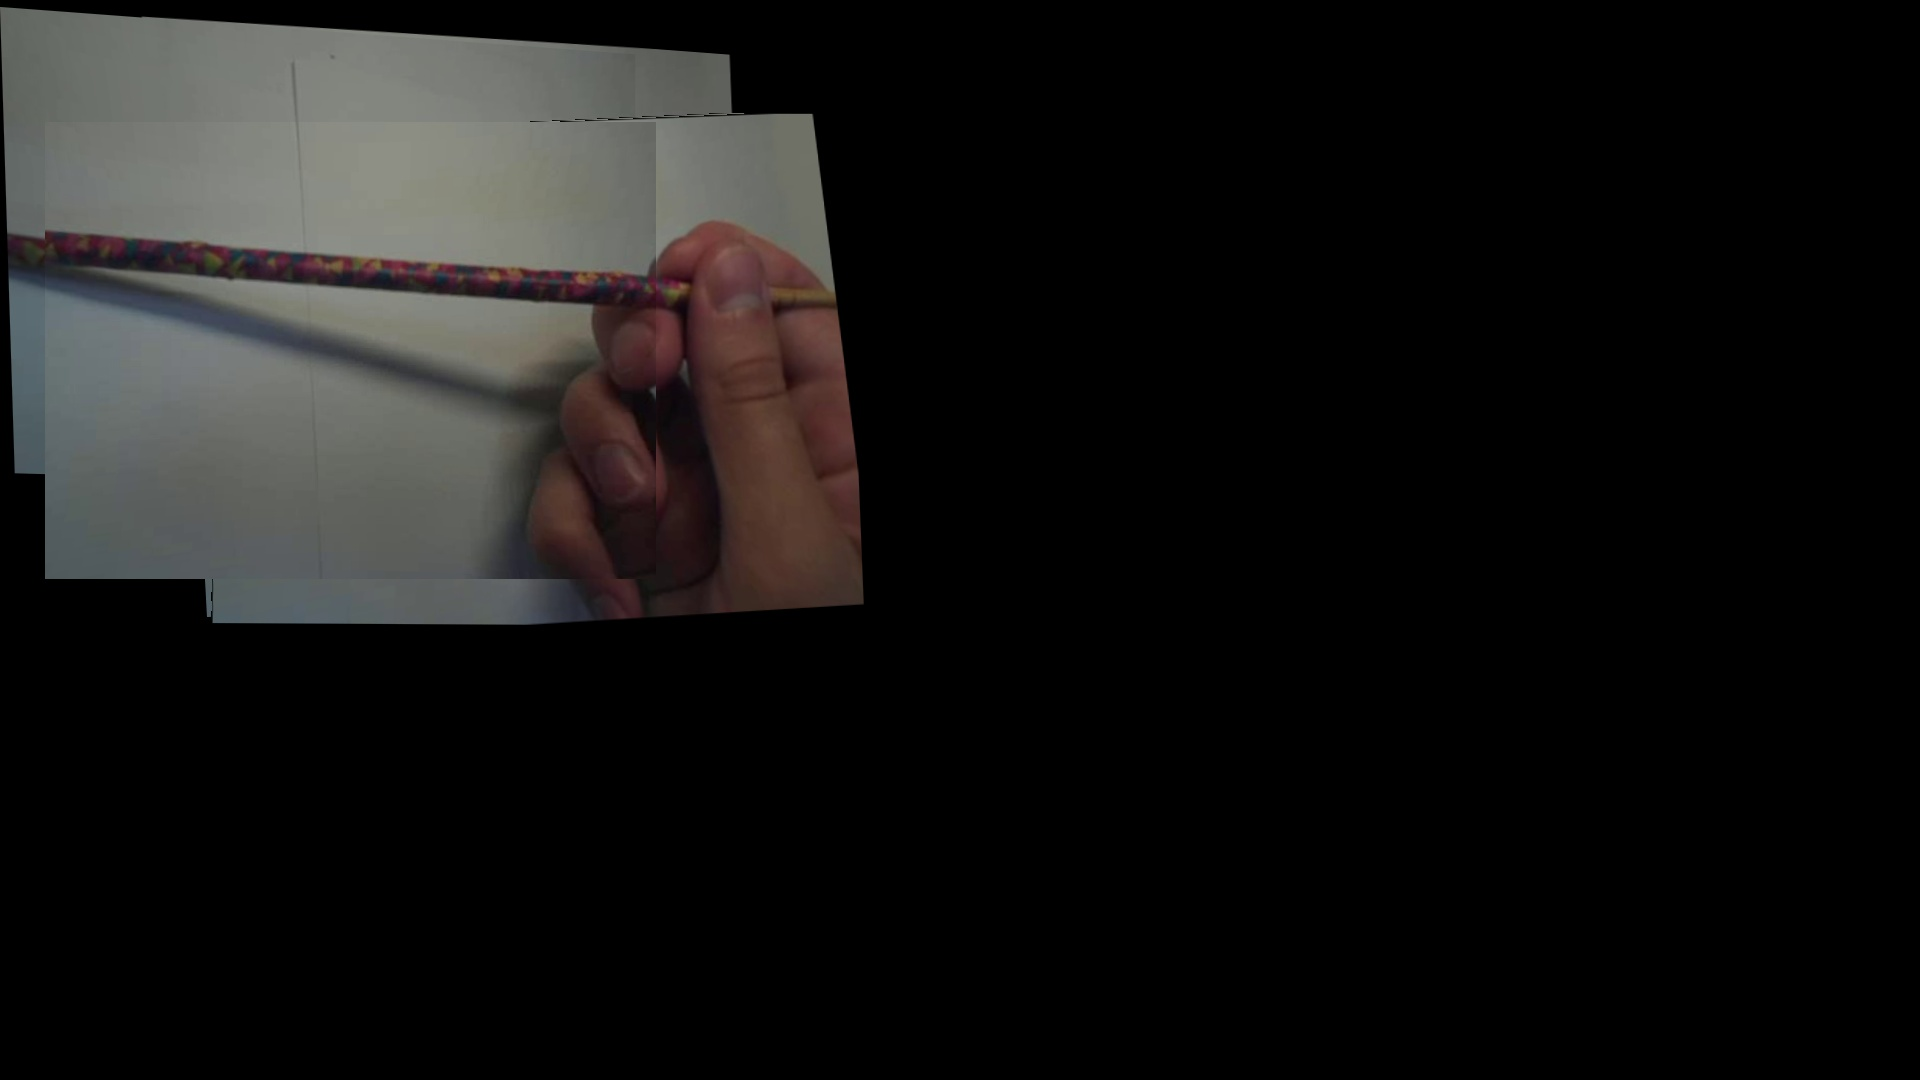
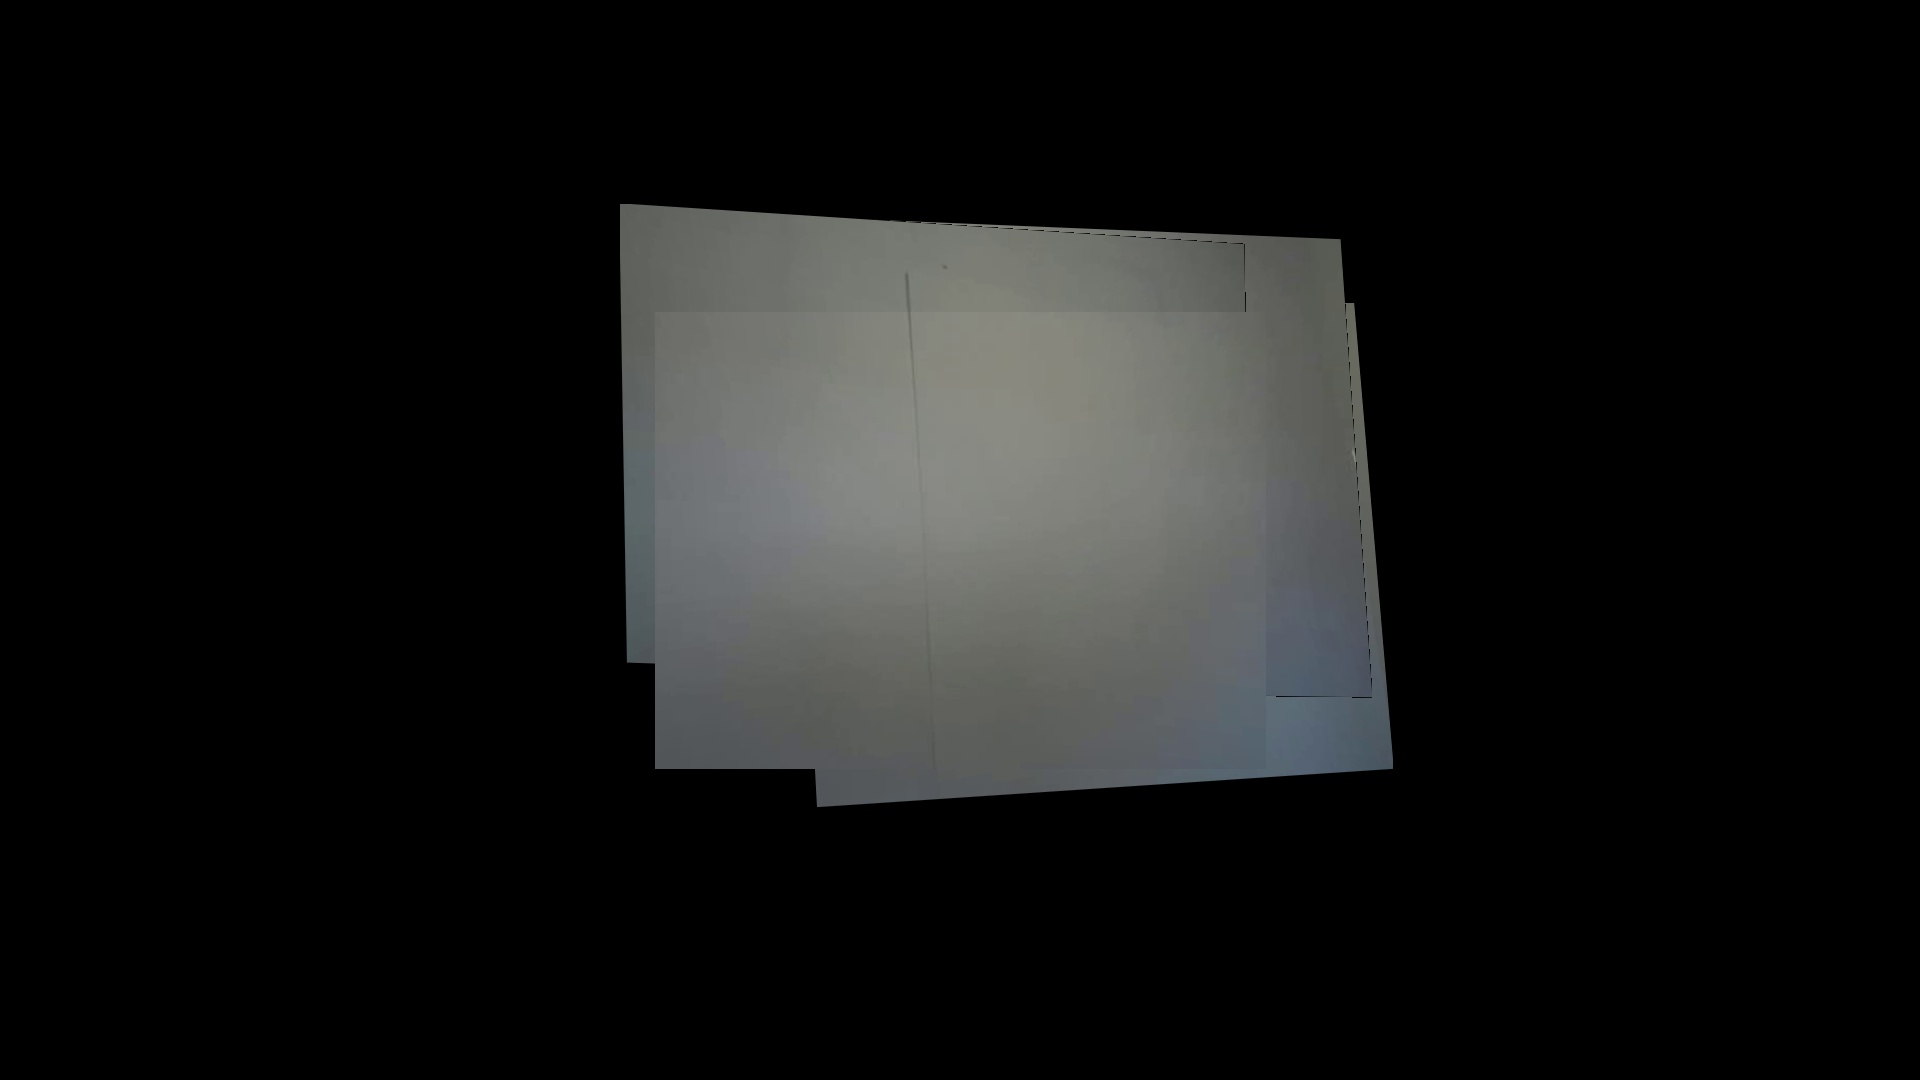
First steps of implementing stitching onto canvas with fixed global coordinate system. VideoStitch3 now has static application of homographies to the center of a 1920x1080 canvas. I still need to add in bugfixing for the corner case where the stitched image would fall outside the canvas and add back

diff --git a/stitcher/videoStitch3.py b/stitcher/videoStitch3.py
@@ -110,7 +110,7 @@ for k in range(0,CALWINDOW):
 
 	# Perform first stitch. Stitching together image 1 and image 2.
 	print "\n1:"
-	(result1, vis1,H,mask11,mask12) = stitch.stitch([image1, image2], showMatches=True)
+	(result1, vis1,H,mask11,mask12,coord_shift1) = stitch.stitch([image1, image2], showMatches=True)
 	H1 = H							# Store first Homography
 	seam1 = stitch.locateSeam(mask11[:,:,0],mask12[:,:,0]) 	# Locate the seam between the two images.
 	
@@ -120,14 +120,15 @@ for k in range(0,CALWINDOW):
         #cv2.waitKey(0)
 
 	print "\n2:"
-	(result2, vis2,H,mask21,mask22) = stitch.stitch([image4, image3], showMatches=True)
+	(result2, vis2,H,mask21,mask22,coord_shift2) = stitch.stitch([image1, image3], showMatches=True)
 	H2 = H							# Store the second Homography
 	seam2 = stitch.locateSeam(mask21[:,:,0],mask22[:,:,0])	# Locate the seam between the two images.
 	print "\n3:"
-	(result3, vis3,H,mask31,mask32) = stitch.stitch([result1,result2], showMatches=True)
+	(result3, vis3,H,mask31,mask32,coord_shift3) = stitch.stitch([image1,image4], showMatches=True)
 	#H3 = H3+H/CALWINDOW
 	H3 = H							# Store the third homography
 	seam3 = stitch.locateSeam(mask31[:,:,0],mask32[:,:,0])	# Locate the seam between the two images.
+	out_pos = output_center - np.array(image1.shape[0:2])/2
 
 
 height = result3.shape[0]
@@ -161,26 +162,43 @@ while ((success1 & success2) & (success3 & success4)):
 	#cv2.imshow("Frame",im3)
 	#cv2.waitKey(0)
 	
+        result = np.zeros(OUTPUT_SIZE)
         print "\nA:"
 	result1,result2,mask1,mask2 = stitch.applyHomography(image1,image2,H1)
 	resultA = (result2*np.logical_not(mask1) + result1).astype('uint8')
-        resultA,fgbg1B = stitch.reStitch(result1,result2,resultA,fgbg1B,seam1)
+	
+	result_window = result[out_pos[0]-coord_shift1[0]:out_pos[0]-coord_shift1[0]+result1.shape[0],out_pos[1]-coord_shift1[1]:out_pos[1]-coord_shift1[1]+result1.shape[1],:]
+        result[out_pos[0]-coord_shift1[0]:out_pos[0]-coord_shift1[0]+result1.shape[0],out_pos[1]-coord_shift1[1]:out_pos[1]-coord_shift1[1]+result1.shape[1],:] = resultA*mask2+ result_window*np.logical_not(mask2)
+        
+        #resultA,fgbg1B = stitch.reStitch(result1,result2,resultA,fgbg1B,seam1)
+
         
         print "\nB:"
-	result1,result2,mask1,mask2 = stitch.applyHomography(image4,image3,H2)
+	result1,result2,mask1,mask2 = stitch.applyHomography(image1,image3,H2)
 	resultB = (result2*np.logical_not(mask1) + result1).astype('uint8')
-	seam2 = stitch.locateSeam(mask1[:,:,0],mask2[:,:,0])	# Locate the seam between the two images.
+	#seam2 = stitch.locateSeam(mask1[:,:,0],mask2[:,:,0])	# Locate the seam between the two images.
 	#resultB,fgbg2B = stitch.reStitch(result1,result2,resultB,fgbg2B,seam2)
+	
+	result_window = result[out_pos[0]-coord_shift2[0]:out_pos[0]-coord_shift2[0]+result1.shape[0],out_pos[1]-coord_shift2[1]:out_pos[1]-coord_shift2[1]+result1.shape[1],:]
+        result[out_pos[0]-coord_shift2[0]:out_pos[0]-coord_shift2[0]+result1.shape[0],out_pos[1]-coord_shift2[1]:out_pos[1]-coord_shift2[1]+result1.shape[1],:] =resultB*mask2 + result_window*np.logical_not(mask2)
 
         print "\nC:"
-	result1,result2,mask1,mask2 = stitch.applyHomography(resultA,resultB,H3)
+	result1,result2,mask1,mask2 = stitch.applyHomography(image1,image4,H3)
 	result3 = (result2*np.logical_not(mask1) + result1).astype('uint8')
-	seam3 = stitch.locateSeam(mask1[:,:,0],mask2[:,:,0])	# Locate the seam between the two images.
+	#seam3 = stitch.locateSeam(mask1[:,:,0],mask2[:,:,0])	# Locate the seam between the two images.
         #result3,fgbg3B = stitch.reStitch(result1,result2,result3,fgbg3B,seam3)
         
-        result = np.zeros(OUTPUT_SIZE)
-        if (result3.shape[0] <= result.shape[0]) and (result3.shape[1] <= result.shape[1]):
-            result[0:result3.shape[0],0:result3.shape[1],:] = result3
+        result_window = result[out_pos[0]-coord_shift3[0]:out_pos[0]-coord_shift3[0]+result1.shape[0],out_pos[1]-coord_shift3[1]:out_pos[1]-coord_shift3[1]+result1.shape[1],:]
+        result[out_pos[0]-coord_shift3[0]:out_pos[0]-coord_shift3[0]+result1.shape[0],out_pos[1]-coord_shift3[1]:out_pos[1]-coord_shift3[1]+result1.shape[1],:] =result3*mask2 + result_window*np.logical_not(mask2)
+
+        
+
+        out_write_coord1 = [out_pos[0] - coord_shift1[0], out_pos[1] - coord_shift1[1]]
+        
+        #result[out_write_coord1[0]:out_write_coord1[0]+resultA.shape[0],out_write_coord1[0]:out_write_coord1[0]+resultA.shape[0],:] = resultA
+        print coord_shift1
+
+        result[out_pos[0]:out_pos[0]+image1.shape[0],out_pos[1]:out_pos[1]+image1.shape[1],:] =image1 
         result = result.astype('uint8')
 
 	elapsed = time.time() - total

diff --git a/stitcher/stitcher2.py b/stitcher/stitcher2.py
@@ -45,9 +45,9 @@ class Stitcher:
 			print 'Error: No Matching Features'
 			
                         if reStitching:
-                            return [0,0,0,0,0,0,0]
+                            return [0,0,0,0,0,(0,0)]
                     
-			return [0,0,0,0,0]
+			return [0,0,0,0,0,(0,0)]
                     
                     
 		# otherwise, apply a perspective warp to stitch the images
@@ -58,9 +58,9 @@ class Stitcher:
                     print "ERROR: no valid Homography"
                     
                     if reStitching:
-                        return [0,0,0,0,0,0,0]
+                        return [0,0,0,0,0,(0,0)]
                     
-                    return [0,0,0,0,0]
+                    return [0,0,0,0,0,(0,0)]
 
 		# Detect the appropriate size for the resulting image. 
 		corners = np.array([[0,0,1],[0,imageA.shape[0],1],[imageA.shape[1],0,1],
@@ -77,7 +77,7 @@ class Stitcher:
 			x_shift = -int(min(x_bound))
 		if min(y_bound) < 0:
 			y_shift = -int(min(y_bound))
-		
+		coord_shift = np.array([y_shift,x_shift])
 		shift_H = np.array([[1,0,x_shift],[0,1,y_shift],[0,0,1]])
 		x_bound = int(max(max(x_bound),imageB.shape[1]))
 		y_bound = int(max(max(y_bound),imageB.shape[0]))
@@ -86,8 +86,8 @@ class Stitcher:
                     print x_bound, y_bound
                     print "ERROR: Image Too Large"
                     if reStitching:
-                        return [0,0,0,0,0,0,0]
-                    return [0,0,0,0,0]
+                        return [0,0,0,0,0,(0,0)]
+                    return [0,0,0,0,0,(0,0)]
 		
 		
 		# Warp Image A and place it in frame.
@@ -123,12 +123,12 @@ class Stitcher:
 			# return a tuple of the stitched image and the
 			# visualization
 			if reStitching:
-                                return (result, vis, H, mask1, mask2, x_shift,y_shift)
+                                return (result, vis, H, mask1, mask2, coord_shift)
 			
-			return (result, vis,H,mask1,mask2)
+			return (result, vis,H,mask1,mask2,coord_shift)
  
 		# return the stitched image
-		return (result,H,mask1,mask2)
+		return (result,H,mask1,mask2,coord_shift)
 
         def detectAndDescribe(self, image):
 		# convert the image to grayscale
@@ -269,7 +269,6 @@ class Stitcher:
 		x_bound = int(max(max(x_bound),imageB.shape[1]))
 		y_bound = int(max(max(y_bound),imageB.shape[0]))
 		
-		
 		# Warp Image A and place it in frame.
 		imageB2 = np.pad(imageB,((y_shift,0),(x_shift,0),(0,0)),'constant',constant_values = 0)
 		result2 = cv2.warpPerspective(imageA, np.dot(shift_H,H),
@@ -365,8 +364,9 @@ class Stitcher:
                                     #image2 = cv2.rectangle(image2,(x[i-1].astype('int'),y[i-1].astype('int')),(x[i-1].astype('int')+w[i-1].astype('int'),y[i-1].astype('int')+h[i-1].astype('int')),(0,255,0),2)
                                     
                                     #Stitch together seam area with object bounding box. 
-                                    r1,vis_tmp,Htemp,m1,m2,x_shift,y_shift  = self.stitch([image1[seam_bounds[0]:seam_bounds[1],seam_bounds[2]:seam_bounds[3]],image2[y[i-1]:y[i-1]+h[i-1],x[i-1]:x[i-1]+w[i-1]]],showMatches=True,reStitching=True)
-                                    
+                                    r1,vis_tmp,Htemp,m1,m2,coord_shift  = self.stitch([image1[seam_bounds[0]:seam_bounds[1],seam_bounds[2]:seam_bounds[3]],image2[y[i-1]:y[i-1]+h[i-1],x[i-1]:x[i-1]+w[i-1]]],showMatches=True,reStitching=True)
+                                    y_shift = coord_shift[0]
+                                    x_shift = coord_shift[1]
                                     #If the stitch was successful. 
                                     if r1 is not 0:
                                         print "Re-stitched"
